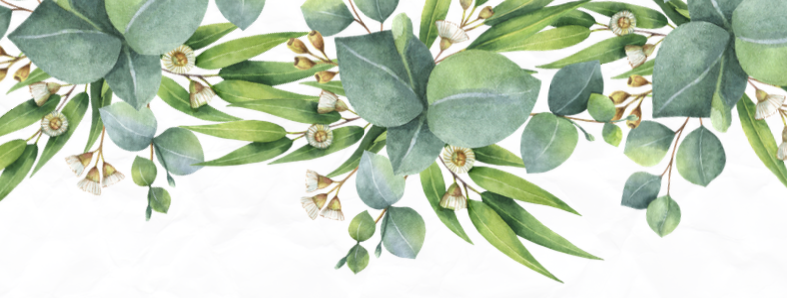
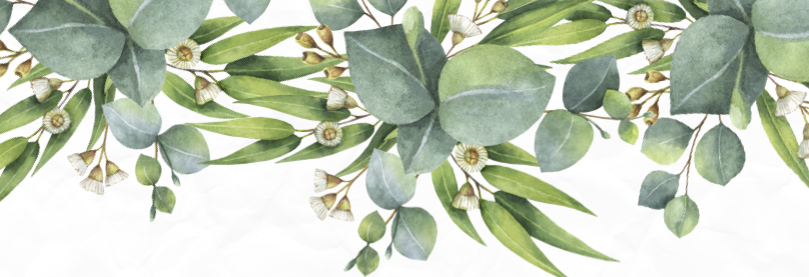
fonts

diff --git a/index.html b/index.html
@@ -22,13 +22,15 @@
       text-align: center;
       position: relative;
       box-shadow: 0 0 10px rgba(0,0,0,0.1);
-      background-image: url('https://www.transparenttextures.com/patterns/paper-fibers.png');
+      background-image: url('./paper-textured.jpg');
+      ;
     }
 
     .top-flowers {
       background: url('./flowers.png') no-repeat center top;
       background-size: cover;
-      height: 120px;
+      height: 207px;
+      opacity: .8;
     }
 
     h1 {
@@ -62,7 +64,7 @@
     }
 
     .date-time div {
-      flex: 1 1 auto;
+      text-transform:uppercase
     }
 
     .envelope {
@@ -104,30 +106,68 @@
         flex: 1 1 100%;
       }
     }
+    .date{
+        text-transform: uppercase;
+    }
+    .date > div{
+        display: inline-block;
+        font-size: 1.3em;
+    }
+    .date .side{
+        width: 25%;
+        border-top: .2em solid #000;
+        border-bottom: .2em solid #000;
+        padding-top: .5em;
+        padding-bottom: .5em;
+        padding-bottom: .5em;
+        position: relative;
+        top: -2em;
+    }
+    .date .day{
+        font-size: 3em;
+    }
+    .iglesia{
+        text-transform: uppercase;
+        font-weight: bold;
+        padding-top: 1em;
+        
+    }
+    .recepcion{
+        padding-top: 1em;
+        text-transform: uppercase;
+    }
   </style>
 </head>
 <body>
   <div class="invitation">
     <div class="top-flowers"></div>
-    <h2>¡Nos casamos!</h2>
     <div style="transform: rotate(-10deg);">
         <div class="names">Fabiola</div>
-        <div class="names" style="margin-top:-0.7em;color:#ccc;font-size:5em" >&</div>
+        <div class="names" style="margin-top:-0.7em;color:#ccc;font-size:4em" >&</div>
         <div class="names" style="margin-top:-0.5em">Pedro</div>
     </div>
     
-    <p>Queremos compartir contigo la felicidad de nuestra unión</p>
+    <p style="text-transform:uppercase; padding: 0em 8em;">Nos gustaría que nos acompañes en este día tan especial</p>
 
-    <div class="date-time">
-      <div>
-        <strong>Día:</strong>
-        <p>26 de julio 2025</p>
-      </div>
-      <div>
-        <strong>Hora:</strong>
-        <p>6:00 P.M.</p>
-      </div>
+    <div class="date">
+       
+        <div class="side">Sábado</div>
+        <div>
+            <div class="month-year">julio</div>
+            <div class="day">26</div>
+            <div class="month-year">2025</div>
+        </div>
+        <div class="side">18:00 hrs.</div>
+        
     </div>
+    <div class="iglesia">
+        Iglesia de San Juan Bautista, Nogales, Ver.
+    </div>
+    <div class="recepcion">
+        <div>A continuacion lo celebraremos todos juntos en el</div>
+        <div style="font-weight: bold;">salón Quijote</div>
+    </div>
+    
     <hr style="border: none; border-top: 2px solid #b38b59; margin: 20px 0;" />
 
     <div class="icons">
